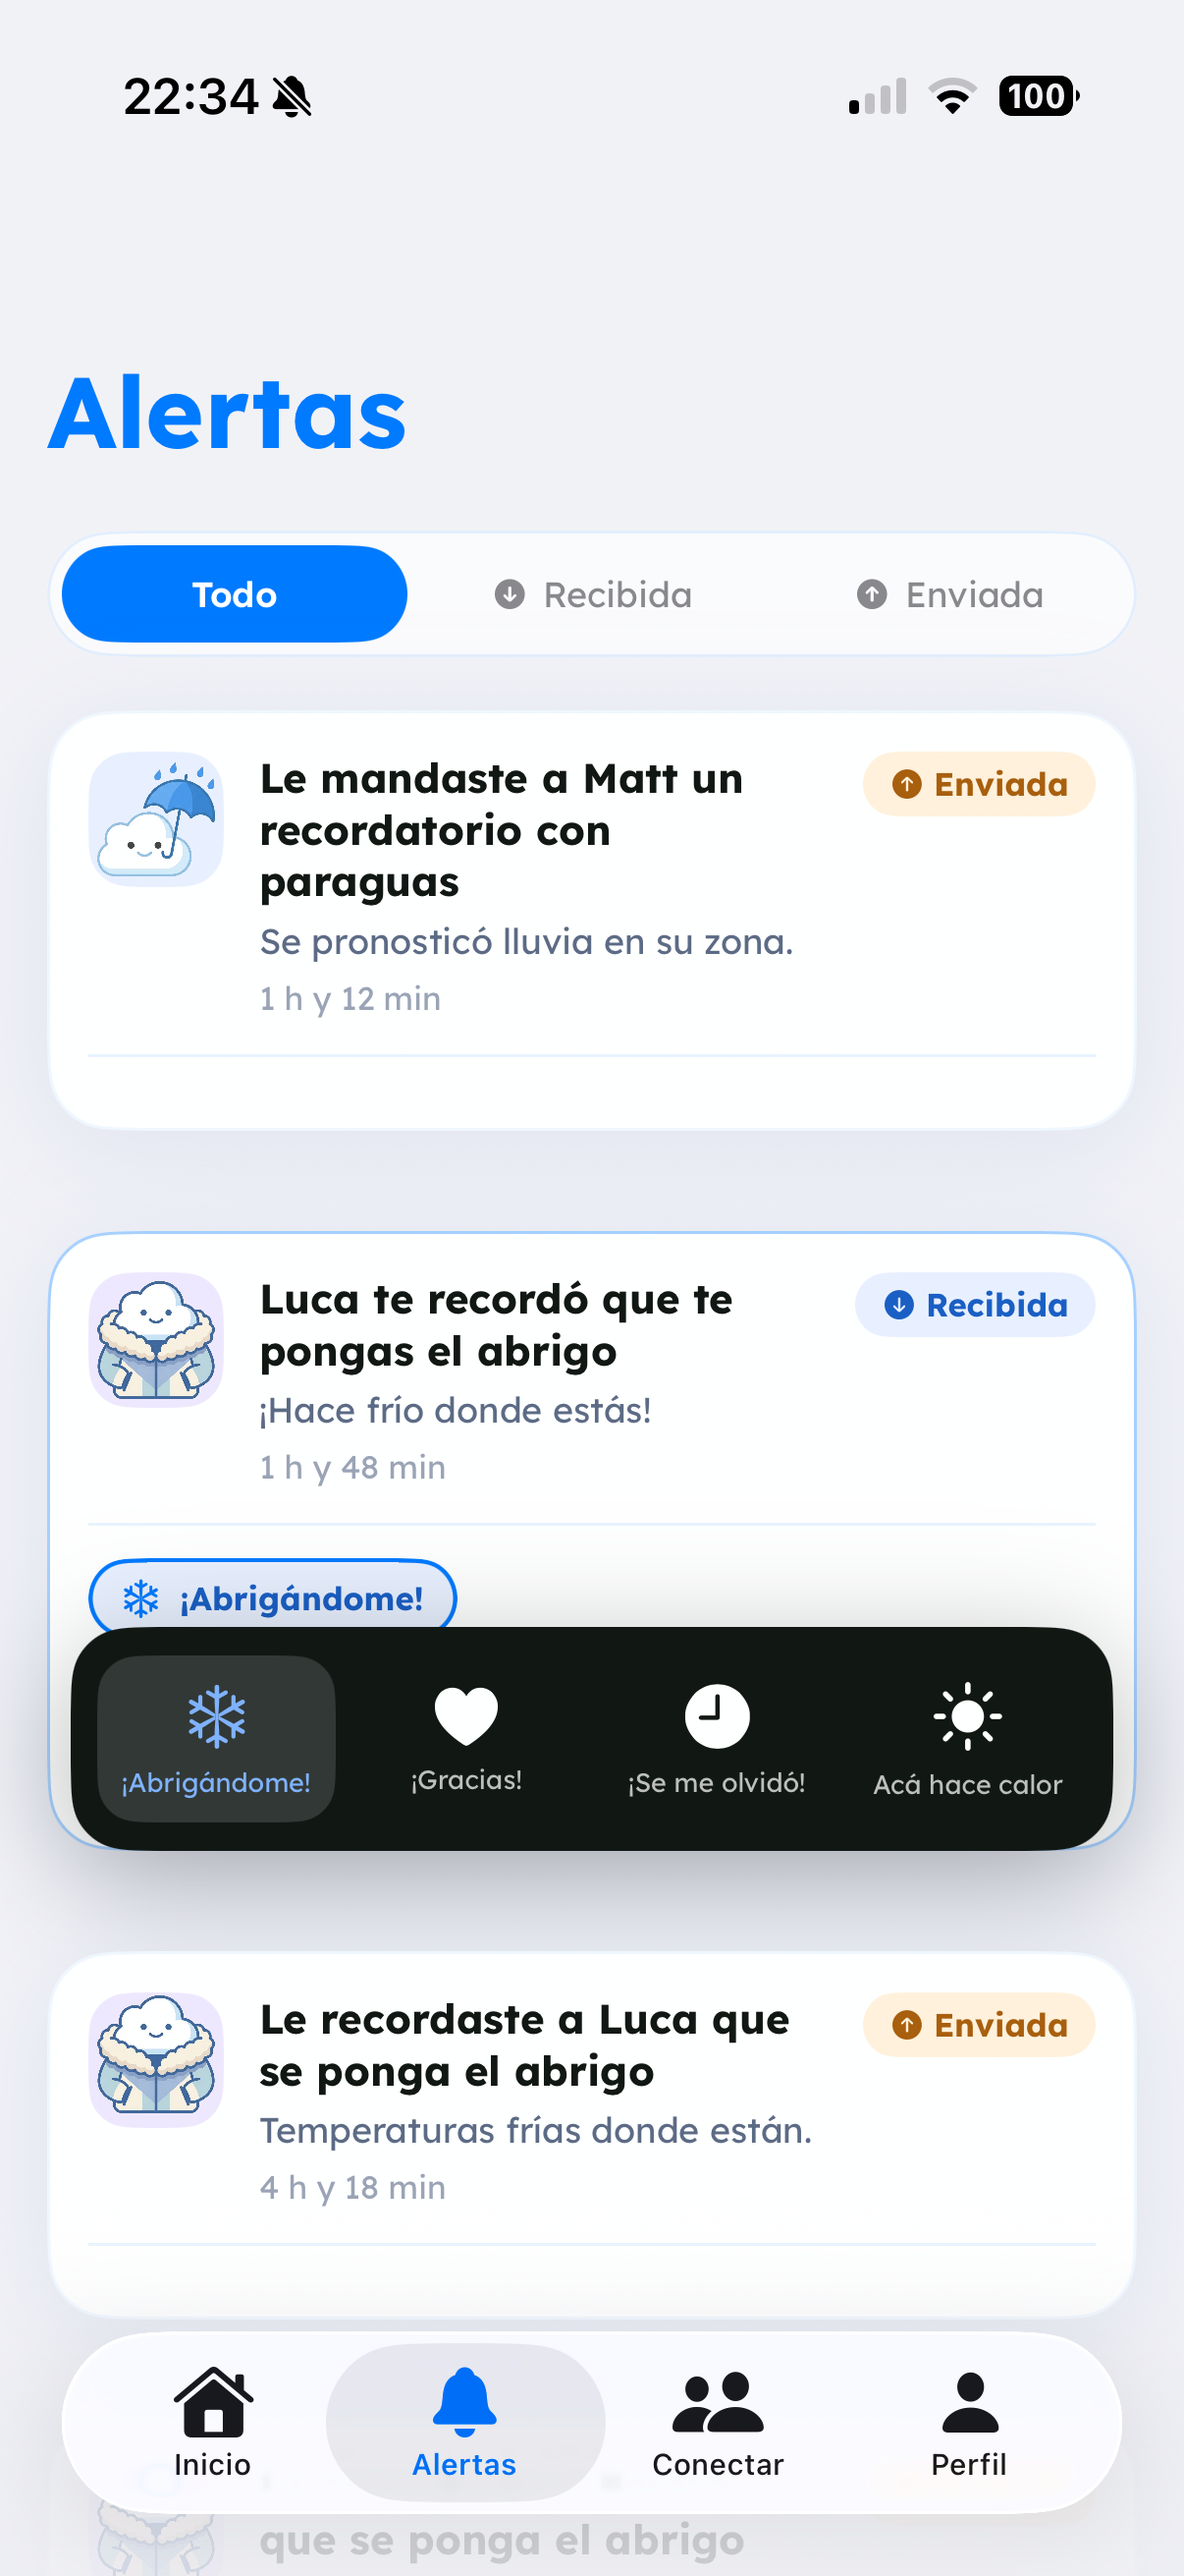
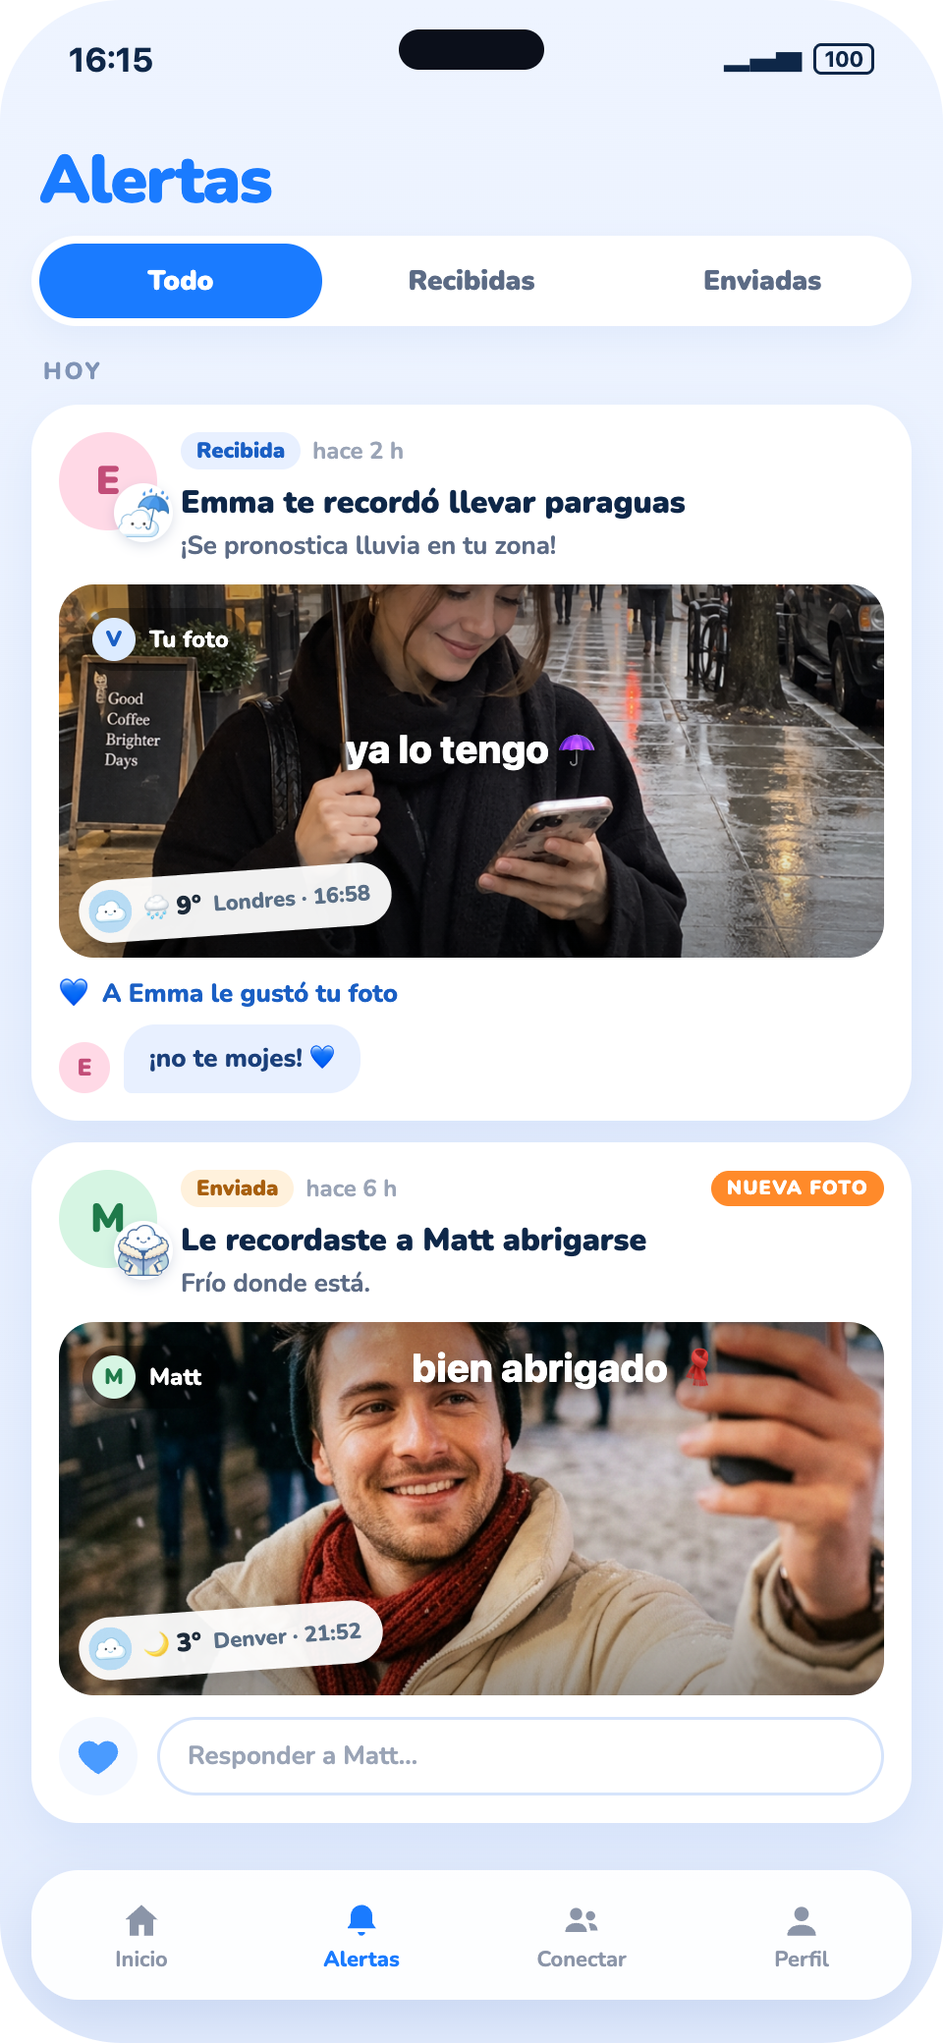
Add files via upload

diff --git a/index.html b/index.html
@@ -249,7 +249,7 @@ a{color:#1a7bff;text-decoration:none}a:hover{color:#0f5fd6}
       <div style="width:min(70%,380px);filter:drop-shadow(0 50px 80px rgba(20,60,140,.26))">
         <div style="padding:2.2%;border-radius:15%/7.4%;background:#0b0f1a">
           <div style="position:relative;border-radius:13%/6.4%;overflow:hidden;background:#fff">
-            <img src="assets/shot-alerts.png" alt="Alerts with one-tap reactions" style="width:100%;display:block">
+            <img src="assets/shot-alerts.png" alt="Alerts with selfie replies stamped with the weather" style="width:100%;display:block">
             <div style="position:absolute;left:50%;top:3%;width:15%;height:2%;margin-left:-7.5%;border-radius:999px;background:#0b0f1a"></div>
           </div>
         </div>
